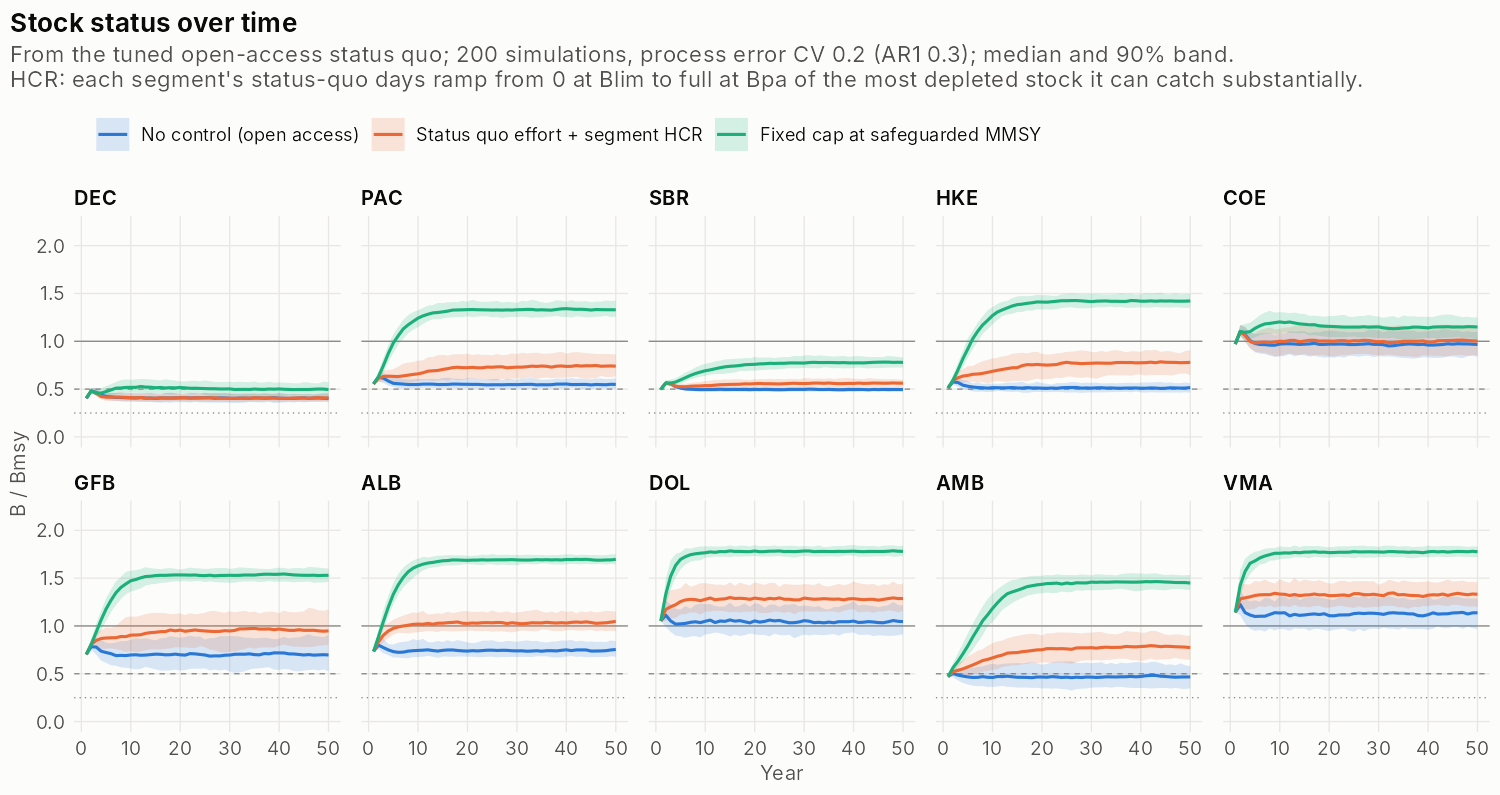
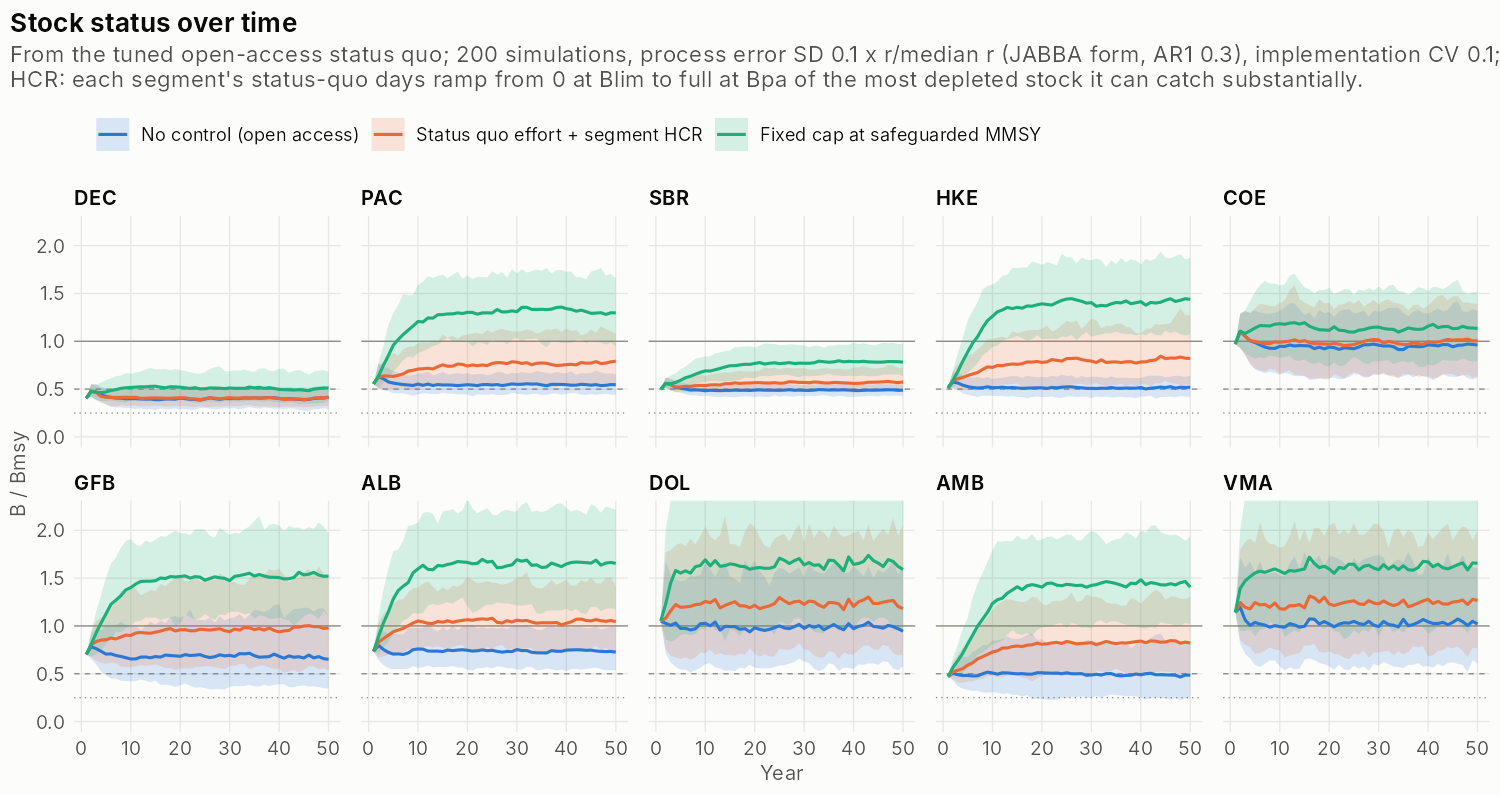
dev-mmsy: JABBA-type process error scaled by r, implementation error, trigger tuning with common random numbers
Process error multiplies the whole process equation, SD 0.1 x r/median r
(AR1, optional cross-species correlation); implementation error on effort
caps; ms_tune_hcr() tunes effort and closure triggers to a per-stock risk
limit (P(B<Bpa) <= 5%) with common random numbers; vector triggers.

Claude-Session: https://claude.ai/code/session_01N6VjbRjKZChkyPJ4nwFJbR

diff --git a/dev/mmsy/README.md b/dev/mmsy/README.md
@@ -104,30 +104,47 @@ Run the scripts from the repository root, with cpueTargeting installed.
    * Blim → Bpa;
    * result: P(B < Blim) = 0, mean yield 581.
 
-## Feedback control (`hcr_effort()`, `scripts/11_feedback.R`)
+## Feedback control (`hcr_effort()`, `scripts/11_feedback.R`, `scripts/12_tune_trigger.R`)
 
-**The rule.** Each year the assessed B/Bmsy is the true value times a lognormal assessment error (CV 0.2).
+**Uncertainty in the projections.**
 
-* Each segment's days are a fraction of its status-quo days. The fraction ramps from 0 at Blim (0.25 Bmsy) to 1 at the trigger (0.8 Bmsy) of the most depleted stock the segment can catch substantially (catchability ≥ 20% of the stock's highest).
-* **Optional closure.** A choke stock in `close` is protected by a closure instead. The open share (area or season) of the métiers that drive it (catchability ≥ 50% of its highest; for Dentex, the shallow reef) follows the same ramp, and the stock is left out of the effort rule.
-* **Optional change limit.** `max_change` limits each segment's annual change.
-* **Engine.** A rule may return `list(mult, open)`. A partly closed métier fishes only its open share, and its value per day scales with that share.
+* **Process error, JABBA form:** B_t+1 = (B_t + rB_t(1 − B_t/K) − C_t) · exp(η_t), with AR(1) 0.3 in time.
+  * The SD of η for species i is 0.1 × r_i / median r (`proc_r_power = 1`), so more productive species are more variable. The range is 0.06 (blackspot seabream) to 0.25 (dolphinfish, chub mackerel).
+  * An optional correlation across species (`proc_rho_sp`) is off by default.
+  * A CV of 0.2 is far too large in this form. With CV 0.2 the stocks crash even under the rules: P(any stock < Blim) is 0.67 without control.
+* **Assessment error:** lognormal CV 0.2 on the B/Bmsy the rule sees.
+* **Implementation error:** lognormal CV 0.1 on the effort caps by segment (`impl_cv`, `impl_bias`).
 
-**Results.** 200 simulations, 50 years, process error CV 0.2 (AR1 0.3), from the tuned status quo (yield 1,745, profit 1,489). Performance is over years 31–50.
+**The rule (`hcr_effort()`).**
 
-| Run | Yield | Profit | Days | P(any stock < Bpa) | Median weakest B/Bmsy | Effort variability |
-|---|---|---|---|---|---|---|
-| No control (open access) | 1,738 | 1,481 | 1,516 | 1.00 | 0.40 | 0.03 |
-| Effort rule, trigger 0.8 Bmsy | 1,613 | 2,677 | 763 | 0.70 | 0.48 | 0.12 |
-| Effort rule + Dentex reef closure | 1,694 | 2,516 | 915 | 0.02 | 0.60 | 0.12 |
-| Effort rule, ±20% per year | 1,629 | 2,643 | 786 | 0.83 | 0.46 | 0.05 |
-| Effort rule + closure, ±20% per year | 1,709 | 2,472 | 946 | 0.03 | 0.59 | 0.05 |
-| Effort rule + closure, no assessment error | 1,743 | 2,320 | 1,060 | 0.00 | 0.58 | 0.02 |
+* Each segment's days are a fraction of its status-quo days. The fraction ramps from 0 at Blim (0.25 Bmsy) to 1 at the trigger, applied to the most depleted stock the segment can catch substantially (catchability ≥ 20% of the stock's highest).
+* **Optional closure.** A choke stock in `close` is protected by a closure instead. The open share (area or season) of the métiers that drive it (catchability ≥ 50% of its highest; for Dentex, the shallow reef) ramps with its own trigger (`Btrig_close`), and the stock is left out of the effort rule.
+* `max_change` limits the annual change.
+* A rule may return `list(mult, open)`. A partly closed métier fishes only its open share.
 
-* **The effort rule alone halves the days and lifts profit by 80%, but Dentex stays at about Bpa (median 0.48).** The remaining days go to the reef.
-* **Adding the reef closure solves the choke.** Dentex reaches 0.66 B/Bmsy, the risk of any stock below Bpa drops to 2%, yield is within 3% of the status quo, and profit is up 70%. With the closure the effort rule needs fewer cuts (915 days against 763).
-* **The ±20% limit halves effort variability at almost no cost.** It also softens the first years, when the rule otherwise cuts hard because nearly every stock starts below 0.8 Bmsy.
-* **Assessment error (CV 0.2) costs about 50 t of yield** and a little risk.
+**Fixed trigger 0.8 Bmsy.** 200 simulations; performance over years 31–50. The deterministic status quo has yield 1,745 and profit 1,489.
+
+| Run | Yield | Profit | Days | P(any < Blim) | Worst stock P(B < Bpa) |
+|---|---|---|---|---|---|
+| No control | 1,667 | 1,500 | 1,529 | 0.066 | 0.92 (Dentex) |
+| Effort rule | 1,467 | 2,642 | 690 | 0.004 | 0.60 (Dentex) |
+| Effort rule + reef closure | 1,557 | 2,539 | 832 | 0.004 | 0.054 (Dentex) |
+| Effort rule + closure, ±20% per year | 1,583 | 2,509 | 867 | 0 | 0.053 |
+| Effort rule + closure, no assessment error | 1,617 | 2,374 | 945 | 0 | 0.056 (blackspot seabream) |
+
+**The trigger as a tuning parameter (`ms_tune_hcr()`).**
+
+* A grid of triggers runs in one vectorised call with common random numbers (`crn`): every trigger sees the same process, assessment and implementation errors.
+* The tuned rule has the highest yield among the triggers that meet the risk limit: every stock below Bpa at most 5% of the time (years 31–50).
+
+| Rule | Tuned trigger(s) | Yield | Profit | Days |
+|---|---|---|---|---|
+| Effort rule only | none up to 1.5 Bmsy meets the limit (1.5 gives 15%) | — | — | — |
+| Effort rule + closure, one shared trigger | 0.85 | 1,538 | 2,587 | 801 |
+| Separate triggers | effort 0.6, closure 3.0 | 1,606 | 2,209 | 1,023 |
+
+* **The closure decouples the choke species.** With separate triggers, the effort rule can be lenient (0.6), while the reef is partly closed until Dentex is well above Bmsy. A permanent full closure is close behind (1,572).
+* **Yield is about 4% below no control, with profit up 47% and the risk limit met.** With one shared trigger, yield is lower and profit higher.
 
 ## Tuning the fleet to an open-access equilibrium (current defaults)
 
